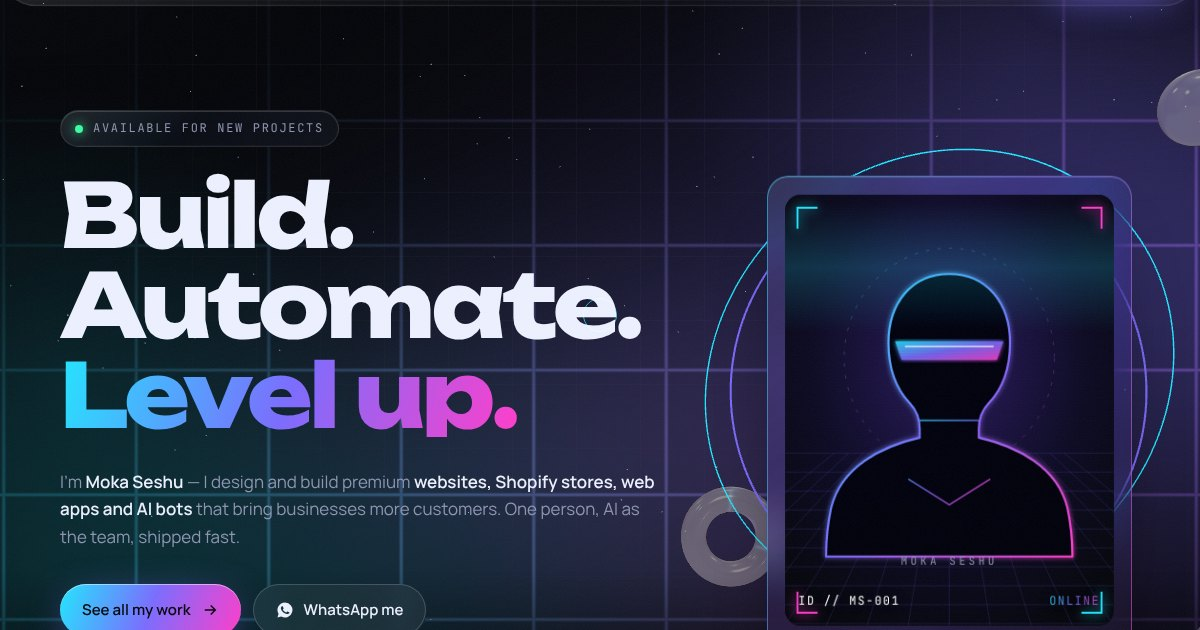
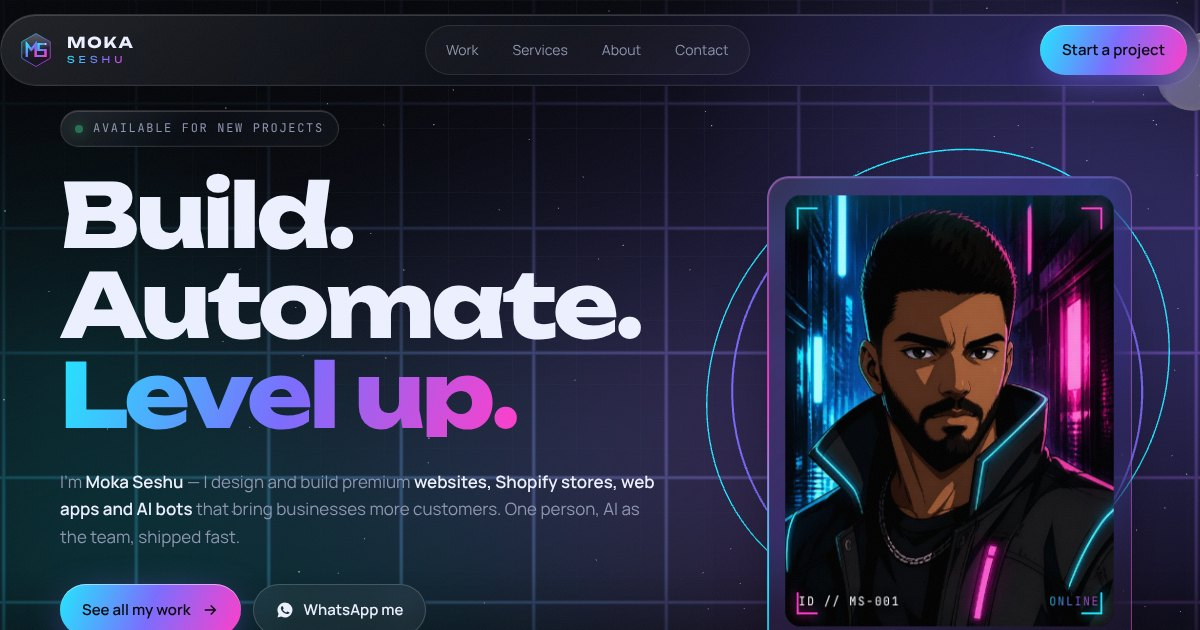
Add cyberpunk anime portrait to ID card and refresh preview image
Claude-Session: https://claude.ai/code/session_01D7PkfGsp43PktC6pqCexmD

diff --git a/seshu/index.html b/seshu/index.html
@@ -104,7 +104,7 @@ h1 .ln>span{display:inline-block}
 
 .idcard{padding:18px;transform-style:preserve-3d;will-change:transform}
 .avatar{position:relative;aspect-ratio:4/5;border-radius:16px;overflow:hidden;background:#090B14;transform:translateZ(40px)}
-.avatar img{width:100%;height:100%;object-fit:cover}
+.avatar img{position:absolute;inset:0;width:100%;height:100%;object-fit:cover;object-position:50% 20%}
 .avatar .scan{position:absolute;inset:0;background:repeating-linear-gradient(0deg,rgba(255,255,255,.04) 0 1px,transparent 1px 3px);mix-blend-mode:overlay;pointer-events:none}
 .avatar .sweep{position:absolute;left:0;right:0;height:30%;background:linear-gradient(transparent,rgba(34,230,255,.18),transparent);animation:sweep 4.5s linear infinite;pointer-events:none}
 @keyframes sweep{from{top:-30%}to{top:100%}}
@@ -353,7 +353,7 @@ h1{margin:20px 0}.facts{margin-top:36px}.ctas{display:grid;grid-template-columns
 <path d="M146 176h108" stroke="#fff" stroke-opacity=".7" stroke-width="2"/>
 <path d="M164 262h72M150 330l50 30 50-30" stroke="url(#avg)" stroke-width="2" fill="none" opacity=".7"/>
 <text x="200" y="430" text-anchor="middle" font-family="JetBrains Mono,monospace" font-size="13" letter-spacing="4" fill="#8D95B0">MOKA SESHU</text></svg></div>
-<img id="avimg" src="assets/avatar.jpg" alt="Moka Seshu" onerror="this.remove()">
+<img id="avimg" src="assets/avatar.jpg" srcset="assets/avatar-sm.jpg 568w, assets/avatar.jpg 1136w" sizes="(max-width:900px) 90vw, 420px" alt="Moka Seshu — cyberpunk portrait" fetchpriority="high" onload="document.getElementById('avph').remove()" onerror="this.remove()">
 <div class="scan"></div><div class="sweep"></div><i class="corner c1"></i><i class="corner c2"></i><i class="corner c3"></i><i class="corner c4"></i>
 <div class="hud mono"><span>ID // MS-001</span><span class="grad">ONLINE</span></div>
 </div>
